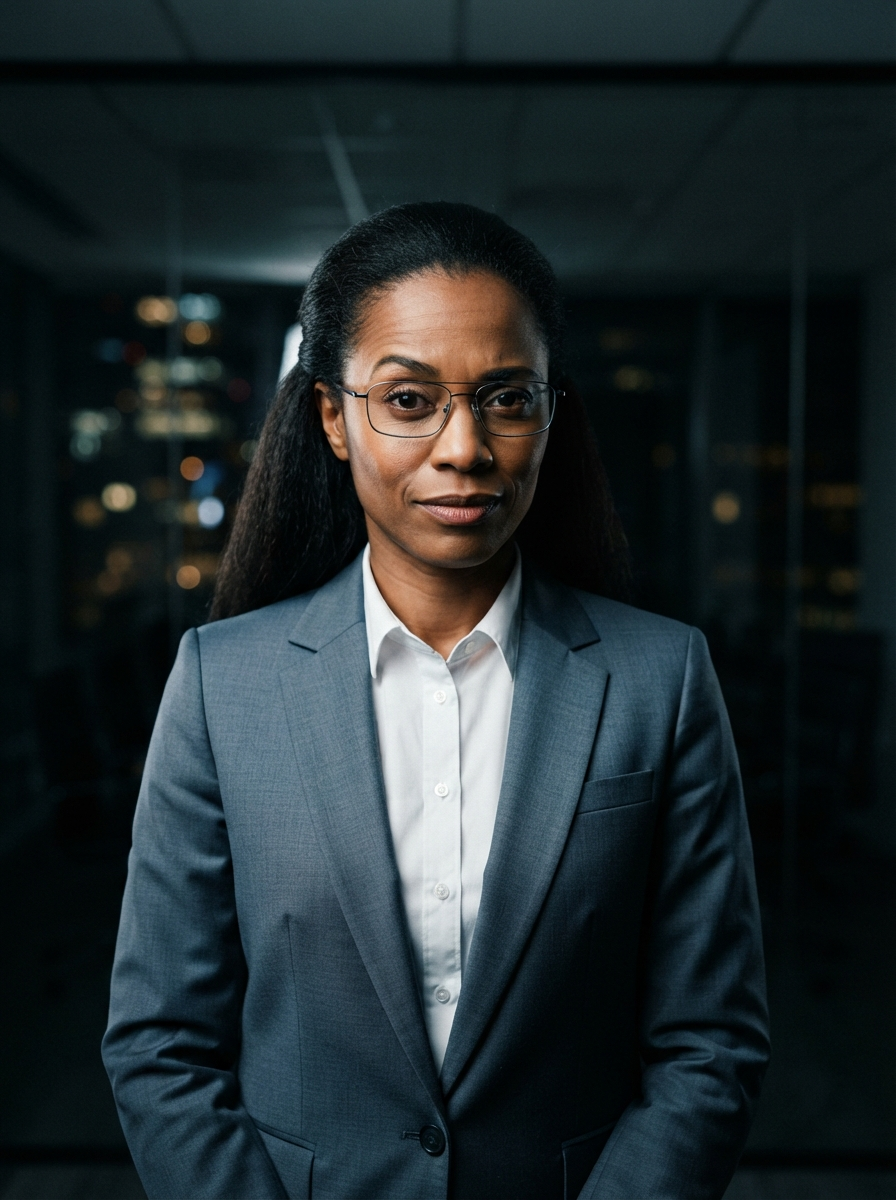
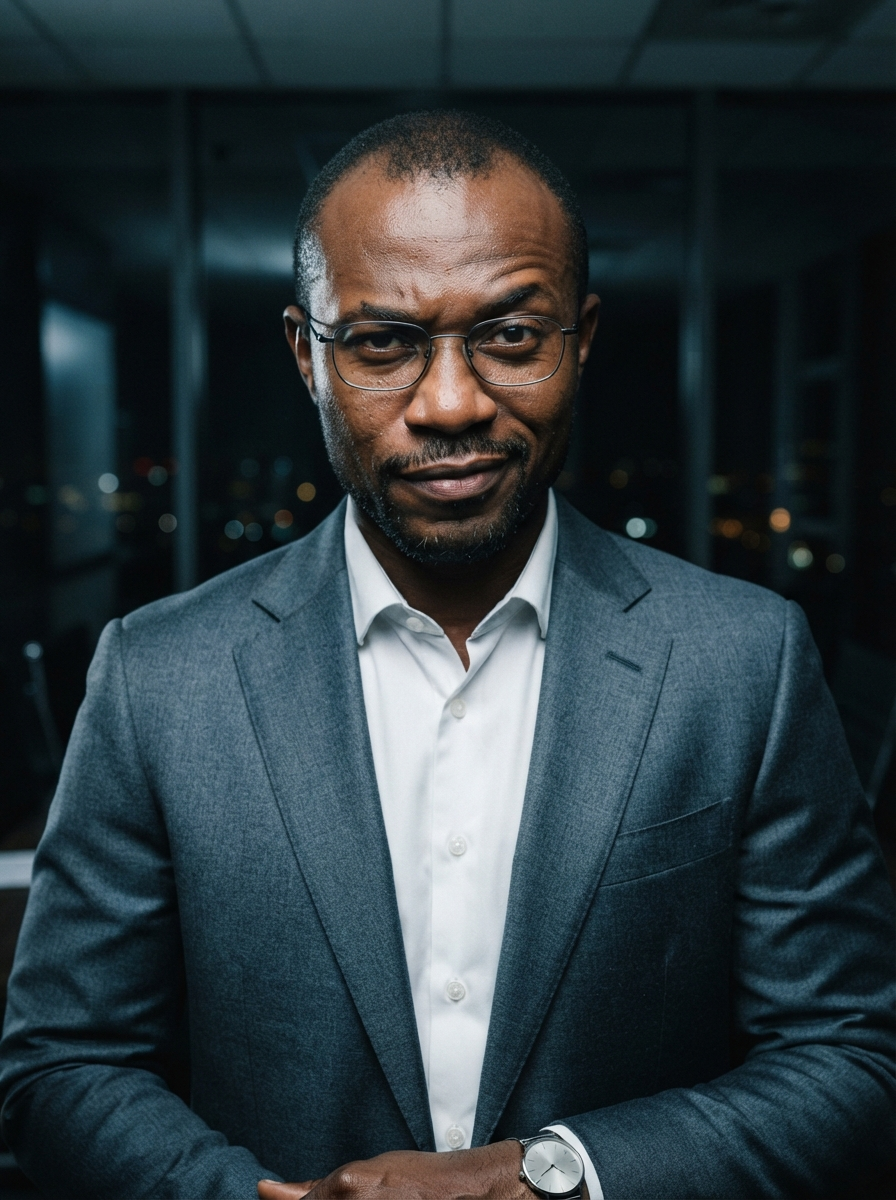
Pendant un mandat, l accueil montre le mandat, pas une galerie
Un bouton de plus etait un pansement : si on ne peut pas choisir, il ne
faut pas montrer un choix. Tant qu un mandat est en cours, l accueil
devient un autre ecran — le portrait de celui qu on incarne, son nom,
le jour, et l etat reel de ses quatre jauges. Ni galerie, ni vignettes,
ni compteur, ni formulaire. Le changement de parcours vit dans le menu.

La galerie passe a quatre parcours ouverts et six verrouilles :
l ancien international rejoint les verrouilles, derriere une reelection
gagnee avec le peuple au-dessus de 60.

L ordre alterne desormais un homme, une femme, et un test le verifie.
Pour que l alternance tombe juste sur dix, la technocrate devient un
technocrate — la spec ne la genrait qu implicitement.

Les parcours verrouilles partent de plus haut (225 points contre 202).
Mesure faite : cela ne leur donne aucun avantage reel, 20,3 jours de
survie au hasard des deux cotes. Ce qui tue, c est la proximite d un
bord, pas le total ; monter une jauge deja haute rapproche du bord qui
tue. L avantage des parcours a debloquer devra etre mecanique.

diff --git a/lib/ecrans/accueil.dart b/lib/ecrans/accueil.dart
@@ -145,10 +145,7 @@ class _AccueilEcranState extends ConsumerState<AccueilEcran> {
         ),
         actions: [
           TextButton(onPressed: () => Navigator.of(context).pop(false), child: const Text('Annuler')),
-          TextButton(
-            onPressed: () => Navigator.of(context).pop(true),
-            child: const Text('Abandonner'),
-          ),
+          TextButton(onPressed: () => Navigator.of(context).pop(true), child: const Text('Abandonner')),
         ],
       ),
     );
@@ -192,7 +189,96 @@ class _AccueilEcranState extends ConsumerState<AccueilEcran> {
             // marges — les vignettes vivent désormais sur le portrait. Sans
             // cette mesure, la zone image prend ses 76 % coûte que coûte et
             // pousse le bouton hors de l'écran.
-            final basNecessaire = (formulaire ? 52.0 + 10 + 56 : 48.0 + 44) + 18 + 30;
+            // Pendant un mandat, il n'y a rien à choisir : l'écran montre
+            // celui qu'on incarne et où en sont ses jauges, et rien d'autre.
+            // Montrer une galerie qu'on ne peut pas utiliser donnerait
+            // l'impression que le jeu refuse d'obéir.
+            if (!formulaire) {
+              final enCours = _enCours!;
+              final sien = c.parcoursParId(enCours.parcours);
+              return SafeArea(
+                top: false,
+                child: LayoutBuilder(
+                  builder: (context, contraintes) {
+                    final hauteurImage = math.min(
+                      taille.height * (courte ? 0.74 : 0.84),
+                      contraintes.maxHeight - (48.0 + 18 + 30),
+                    );
+                    return Column(
+                      children: [
+                        SizedBox(
+                          height: hauteurImage,
+                          width: double.infinity,
+                          child: Stack(
+                            fit: StackFit.expand,
+                            children: [
+                              if (sien != null) _PortraitParcours(parcours: sien, verrouille: false),
+                              _BarreHaute(onMenu: _ouvreMenu),
+                              Positioned(
+                                left: 0,
+                                right: 0,
+                                bottom: 0,
+                                child: Padding(
+                                  padding: const EdgeInsets.fromLTRB(22, 0, 22, 22),
+                                  child: Column(
+                                    crossAxisAlignment: CrossAxisAlignment.start,
+                                    mainAxisSize: MainAxisSize.min,
+                                    children: [
+                                      Text('VOTRE MANDAT', style: Textes.surtitre),
+                                      const SizedBox(height: 6),
+                                      Text(
+                                        enCours.nomJoueur,
+                                        style: courte ? Textes.nomParcoursCourt : Textes.nomParcours,
+                                        maxLines: 2,
+                                        overflow: TextOverflow.ellipsis,
+                                      ),
+                                      const SizedBox(height: 6),
+                                      Text(
+                                        '${sien?.titre ?? ''} · jour ${enCours.jour}',
+                                        style: Textes.sousTitre,
+                                        maxLines: 2,
+                                        overflow: TextOverflow.ellipsis,
+                                      ),
+                                      const SizedBox(height: 18),
+                                      _JaugesDepart(
+                                        depart: enCours.jauges,
+                                        verrouille: false,
+                                        souligneLaPlusHaute: false,
+                                      ),
+                                    ],
+                                  ),
+                                ),
+                              ),
+                            ],
+                          ),
+                        ),
+                        Expanded(
+                          child: Center(
+                            child: Padding(
+                              padding: const EdgeInsets.fromLTRB(22, 18, 22, 30),
+                              child: SizedBox(
+                                width: double.infinity,
+                                child: OutlinedButton(
+                                  onPressed: () async {
+                                    ref.read(sessionProvider.notifier).reprend(enCours);
+                                    await Navigator.of(context)
+                                        .push(MaterialPageRoute(builder: (_) => const PartieEcran()));
+                                    await _relisSauvegarde();
+                                  },
+                                  child: Text('Reprendre le jour ${enCours.jour}'),
+                                ),
+                              ),
+                            ),
+                          ),
+                        ),
+                      ],
+                    );
+                  },
+                ),
+              );
+            }
+
+            final basNecessaire = 52.0 + 10 + 56 + 18 + 30;
 
             return SafeArea(
               top: false,
@@ -218,50 +304,7 @@ class _AccueilEcranState extends ConsumerState<AccueilEcran> {
                                   _PortraitParcours(parcours: p, verrouille: !debloque(p)),
                               ],
                             ),
-                            Padding(
-                              padding: const EdgeInsets.fromLTRB(26, 60, 26, 0),
-                              // La marque à gauche, le menu exactement au
-                              // milieu, le compteur de parcours à droite : les
-                              // deux côtés ont la même largeur, donc le bouton
-                              // du milieu est vraiment centré.
-                              // Hauteur bornée : un Align sans facteur de
-                              // taille remplit tout ce qu'on lui donne, et la
-                              // barre se centrerait au milieu du portrait.
-                              child: Align(
-                                alignment: Alignment.topCenter,
-                                child: SizedBox(
-                                  height: 48,
-                                  child: Row(
-                                    children: [
-                                      Expanded(
-                                        child: Align(
-                                          alignment: Alignment.centerLeft,
-                                          child: Image.asset(
-                                            'assets/icone/marque.png',
-                                            height: 44,
-                                            errorBuilder: (_, __, ___) => const SizedBox(height: 44),
-                                          ),
-                                        ),
-                                      ),
-                                      IconButton(
-                                        tooltip: 'Menu',
-                                        icon: Icon(Icons.menu, color: Couleurs.creme.withValues(alpha: .8)),
-                                        onPressed: _ouvreMenu,
-                                      ),
-                                      Expanded(
-                                        child: Align(
-                                          alignment: Alignment.centerRight,
-                                          child: Text(
-                                            '${choisi + 1} / ${parcours.length}',
-                                            style: Textes.surtitre,
-                                          ),
-                                        ),
-                                      ),
-                                    ],
-                                  ),
-                                ),
-                              ),
-                            ),
+                            _BarreHaute(compteur: '${choisi + 1} / ${parcours.length}', onMenu: _ouvreMenu),
                             Positioned(
                               left: 0,
                               right: 0,
@@ -343,62 +386,32 @@ class _AccueilEcranState extends ConsumerState<AccueilEcran> {
                             padding: const EdgeInsets.fromLTRB(22, 18, 22, 30),
                             child: Column(
                               crossAxisAlignment: CrossAxisAlignment.stretch,
-                              // Un mandat en cours se reprend ; on ne propose
-                              // pas d'en commencer un autre par-dessus. Pour
-                              // cela, « Nouvelle partie » dans le menu.
-                              children: formulaire
-                                  ? [
-                                      TextField(
-                                        controller: _nom,
-                                        onChanged: (_) => setState(() {}),
-                                        decoration: const InputDecoration(hintText: 'Votre nom'),
-                                      ),
-                                      const SizedBox(height: 10),
-                                      AnimatedOpacity(
-                                        duration: const Duration(milliseconds: 160),
-                                        opacity: pret ? 1 : .6,
-                                        child: FilledButton(
-                                          onPressed: !pret
-                                              ? null
-                                              : () async {
-                                                  final p = c.parcoursParId(actuel.id)!;
-                                                  ref
-                                                      .read(sessionProvider.notifier)
-                                                      .demarre(parcours: p, nom: _nom.text.trim());
-                                                  await Navigator.of(context).push(
-                                                    MaterialPageRoute(builder: (_) => const PartieEcran()),
-                                                  );
-                                                  await _relisSauvegarde();
-                                                },
-                                          child: const Text('Prendre mes fonctions'),
-                                        ),
-                                      ),
-                                    ]
-                                  : [
-                                      OutlinedButton(
-                                        onPressed: () async {
-                                          ref.read(sessionProvider.notifier).reprend(_enCours!);
-                                          await Navigator.of(context)
-                                              .push(MaterialPageRoute(builder: (_) => const PartieEcran()));
-                                          await _relisSauvegarde();
-                                        },
-                                        child: Text('Reprendre le jour ${_enCours!.jour}'),
-                                      ),
-                                      // La sortie doit se voir : enterrée dans
-                                      // le menu, personne ne la trouve, et
-                                      // l'écran a l'air de refuser qu'on change
-                                      // de parcours.
-                                      TextButton(
-                                        onPressed: _demandeNouvellePartie,
-                                        child: Text(
-                                          'Choisir un autre parcours',
-                                          style: Textes.rappel.copyWith(
-                                            color: Couleurs.creme.withValues(alpha: .65),
-                                            letterSpacing: .2,
-                                          ),
-                                        ),
-                                      ),
-                                    ],
+                              children: [
+                                TextField(
+                                  controller: _nom,
+                                  onChanged: (_) => setState(() {}),
+                                  decoration: const InputDecoration(hintText: 'Votre nom'),
+                                ),
+                                const SizedBox(height: 10),
+                                AnimatedOpacity(
+                                  duration: const Duration(milliseconds: 160),
+                                  opacity: pret ? 1 : .6,
+                                  child: FilledButton(
+                                    onPressed: !pret
+                                        ? null
+                                        : () async {
+                                            final p = c.parcoursParId(actuel.id)!;
+                                            ref
+                                                .read(sessionProvider.notifier)
+                                                .demarre(parcours: p, nom: _nom.text.trim());
+                                            await Navigator.of(context)
+                                                .push(MaterialPageRoute(builder: (_) => const PartieEcran()));
+                                            await _relisSauvegarde();
+                                          },
+                                    child: const Text('Prendre mes fonctions'),
+                                  ),
+                                ),
+                              ],
                             ),
                           ),
                         ),
@@ -409,6 +422,56 @@ class _AccueilEcranState extends ConsumerState<AccueilEcran> {
               ),
             );
           },
+        ),
+      ),
+    );
+  }
+}
+
+/// La barre haute posée sur le portrait : la marque à gauche, le menu
+/// exactement au milieu, et à droite le compteur de parcours — absent quand
+/// il n'y a rien à compter, c'est-à-dire pendant un mandat.
+class _BarreHaute extends StatelessWidget {
+  const _BarreHaute({required this.onMenu, this.compteur});
+
+  final VoidCallback onMenu;
+  final String? compteur;
+
+  @override
+  Widget build(BuildContext context) {
+    return Padding(
+      padding: const EdgeInsets.fromLTRB(26, 60, 26, 0),
+      // Hauteur bornée : un Align sans facteur de taille remplit tout ce
+      // qu'on lui donne, et la barre se centrerait au milieu du portrait.
+      child: Align(
+        alignment: Alignment.topCenter,
+        child: SizedBox(
+          height: 48,
+          child: Row(
+            children: [
+              Expanded(
+                child: Align(
+                  alignment: Alignment.centerLeft,
+                  child: Image.asset(
+                    'assets/icone/marque.png',
+                    height: 44,
+                    errorBuilder: (_, __, ___) => const SizedBox(height: 44),
+                  ),
+                ),
+              ),
+              IconButton(
+                tooltip: 'Menu',
+                icon: Icon(Icons.menu, color: Couleurs.creme.withValues(alpha: .8)),
+                onPressed: onMenu,
+              ),
+              Expanded(
+                child: Align(
+                  alignment: Alignment.centerRight,
+                  child: Text(compteur ?? '', style: Textes.surtitre),
+                ),
+              ),
+            ],
+          ),
         ),
       ),
     );
@@ -521,10 +584,20 @@ class _IdentiteParcours extends StatelessWidget {
 /// Les quatre jauges de depart du parcours ; la plus haute ressort en or,
 /// sauf parcours verrouille ou toutes restent en retrait.
 class _JaugesDepart extends StatelessWidget {
-  const _JaugesDepart({super.key, required this.depart, required this.verrouille});
+  const _JaugesDepart({
+    super.key,
+    required this.depart,
+    required this.verrouille,
+    this.souligneLaPlusHaute = true,
+  });
 
   final Jauges depart;
   final bool verrouille;
+
+  /// Au choix du parcours, la jauge dominante en or dit le style de mandat.
+  /// Sur un mandat en cours, elle ne dirait rien d'utile : c'est celle qui
+  /// s'effondre qui compte, et l'écran de jeu s'en charge.
+  final bool souligneLaPlusHaute;
 
   @override
   Widget build(BuildContext context) {
@@ -537,7 +610,7 @@ class _JaugesDepart extends StatelessWidget {
       children: [
         for (final j in Jauge.values) ...[
           if (j != Jauge.values.first) const SizedBox(width: 10),
-          Expanded(child: _colonneJauge(j, en: !verrouille && j == plusHaute)),
+          Expanded(child: _colonneJauge(j, en: souligneLaPlusHaute && !verrouille && j == plusHaute)),
         ],
       ],
     );

diff --git a/test/ecrans/accueil_test.dart b/test/ecrans/accueil_test.dart
@@ -152,18 +152,24 @@ void main() {
     expect(find.text('Nouvelle partie'), findsNothing);
   });
 
-  testWidgets('avec un mandat en cours, on peut changer de parcours sans passer par le menu',
-      (tester) async {
+  testWidgets('un mandat en cours remplace la galerie par le mandat lui-meme', (tester) async {
     final etat = EtatPartie(parcours: 'general_parcours', nomJoueur: 'Awa', jauges: Jauges.milieu, jour: 12);
     SharedPreferences.setMockInitialValues({'partie_en_cours': jsonEncode(versJson(etat))});
     await montre(tester);
 
-    // La sortie est visible sur l ecran, pas seulement dans le menu.
-    expect(find.text('Choisir un autre parcours'), findsOneWidget);
-    await tester.tap(find.text('Choisir un autre parcours'));
-    await tester.pumpAndSettle();
-    // Le meme avertissement que depuis le menu.
-    expect(find.textContaining('Vous en êtes au jour 12'), findsOneWidget);
+    // Ce qu on incarne, et ou on en est.
+    expect(find.text('VOTRE MANDAT'), findsOneWidget);
+    expect(find.text('Awa'), findsOneWidget);
+    expect(find.textContaining('jour 12'), findsWidgets);
+    expect(find.text('Reprendre le jour 12'), findsOneWidget);
+
+    // Et rien du choix de parcours : ni les autres portraits, ni les
+    // vignettes, ni le compteur, ni le formulaire.
+    expect(find.text('QUI ÉTIEZ-VOUS AVANT ?'), findsNothing);
+    expect(find.byKey(const ValueKey('vignette-professeure')), findsNothing);
+    expect(find.text('1 / 3'), findsNothing);
+    expect(find.byType(TextField), findsNothing);
+    expect(find.text('Prendre mes fonctions'), findsNothing);
   });
 
   testWidgets('nouvelle partie previent de ce qu on perd, puis rend le formulaire', (tester) async {

diff --git a/test/contenu/contenu_reel_test.dart b/test/contenu/contenu_reel_test.dart
@@ -27,10 +27,18 @@ void main() {
     expect(contenu.cartes.length, greaterThanOrEqualTo(50));
   });
 
-  test('cinq parcours sont ouverts et cinq sont verrouilles', () {
+  test('quatre parcours sont ouverts et six sont verrouilles', () {
     expect(contenu.parcours.length, 10);
-    expect(contenu.parcours.where((p) => p.ouvertDesLeDebut).length, 5);
-    expect(contenu.parcours.where((p) => !p.ouvertDesLeDebut).length, 5);
+    expect(contenu.parcours.where((p) => p.ouvertDesLeDebut).length, 4);
+    expect(contenu.parcours.where((p) => !p.ouvertDesLeDebut).length, 6);
+  });
+
+  test('la galerie alterne un homme, une femme', () {
+    final genres = contenu.parcours.map((p) => p.femme).toList();
+    for (var i = 1; i < genres.length; i++) {
+      expect(genres[i], isNot(genres[i - 1]),
+          reason: 'deux parcours du même genre se suivent en position ${i + 1}');
+    }
   });
 
   test('les parcours verrouilles portent une condition typee', () {
